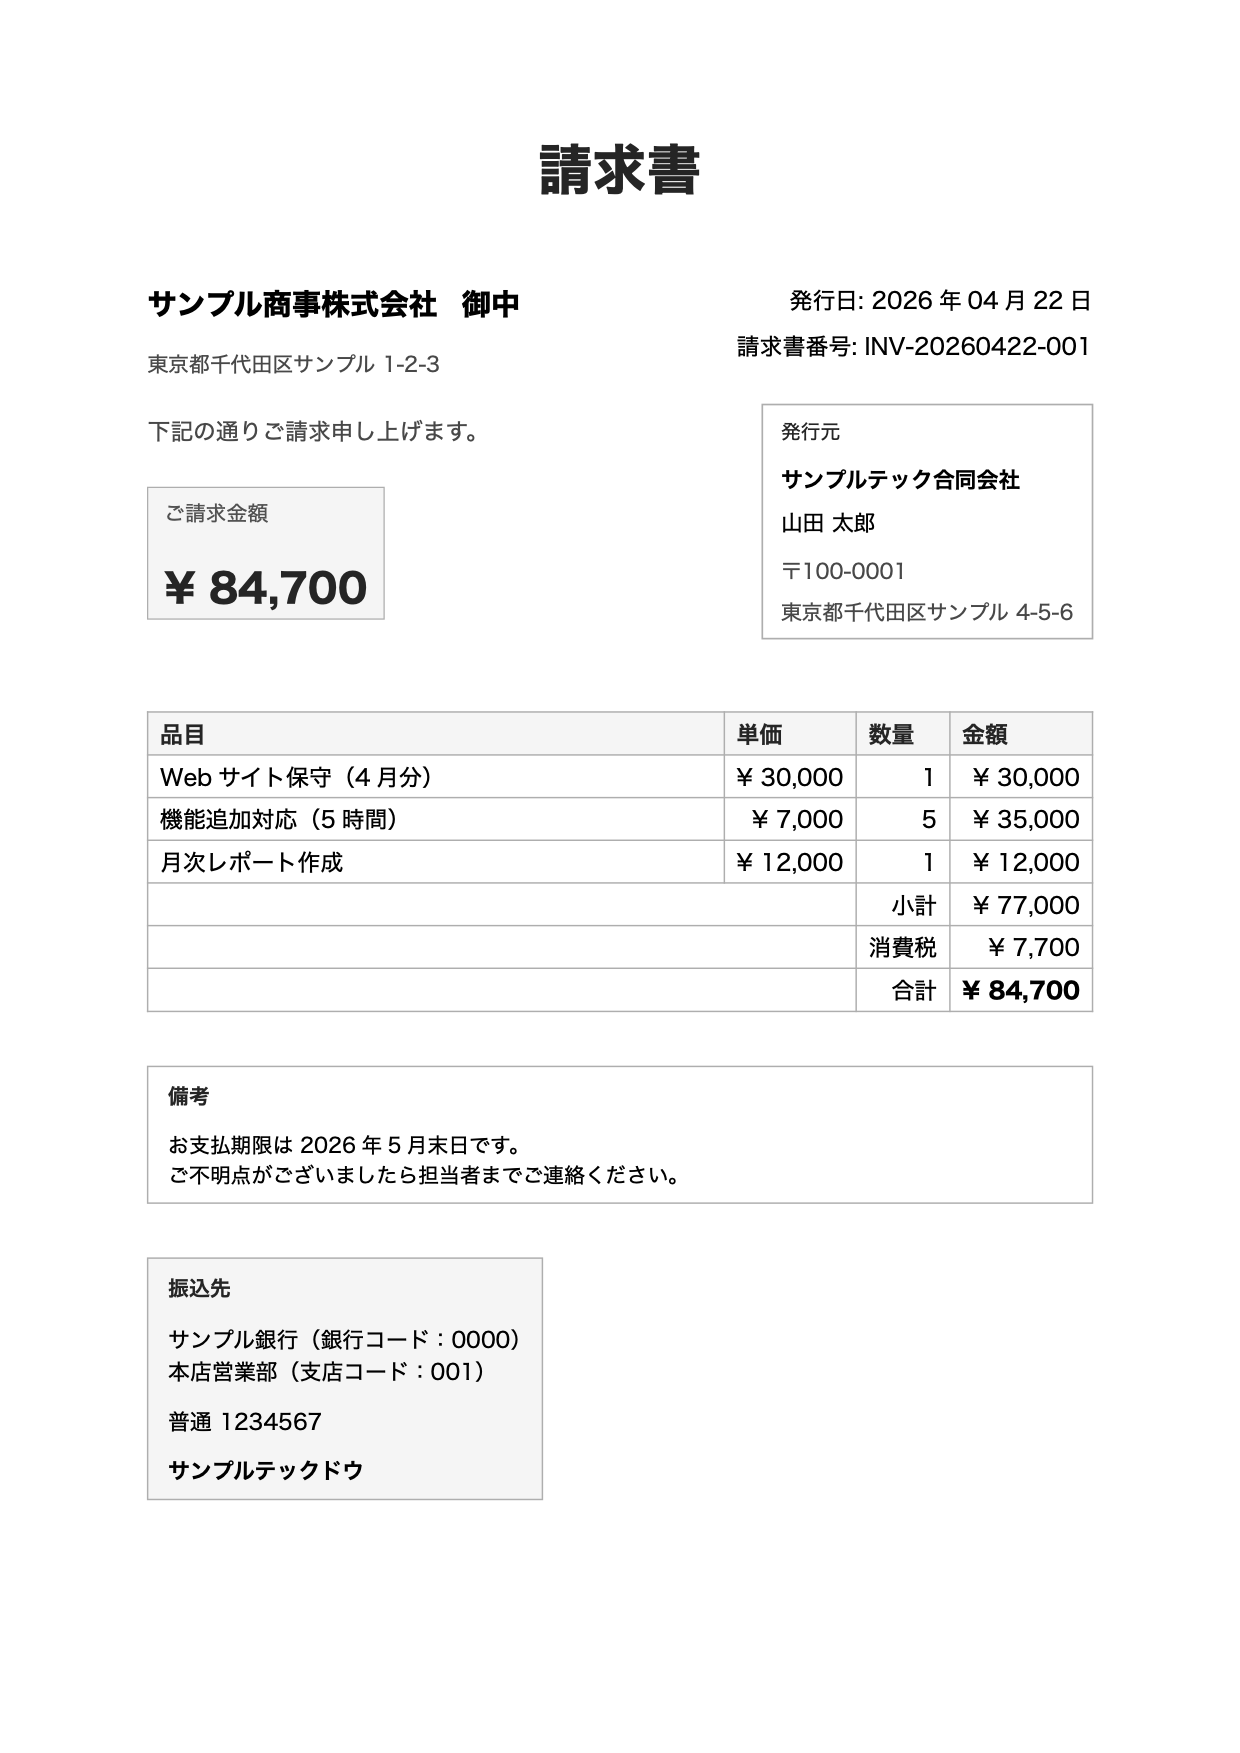
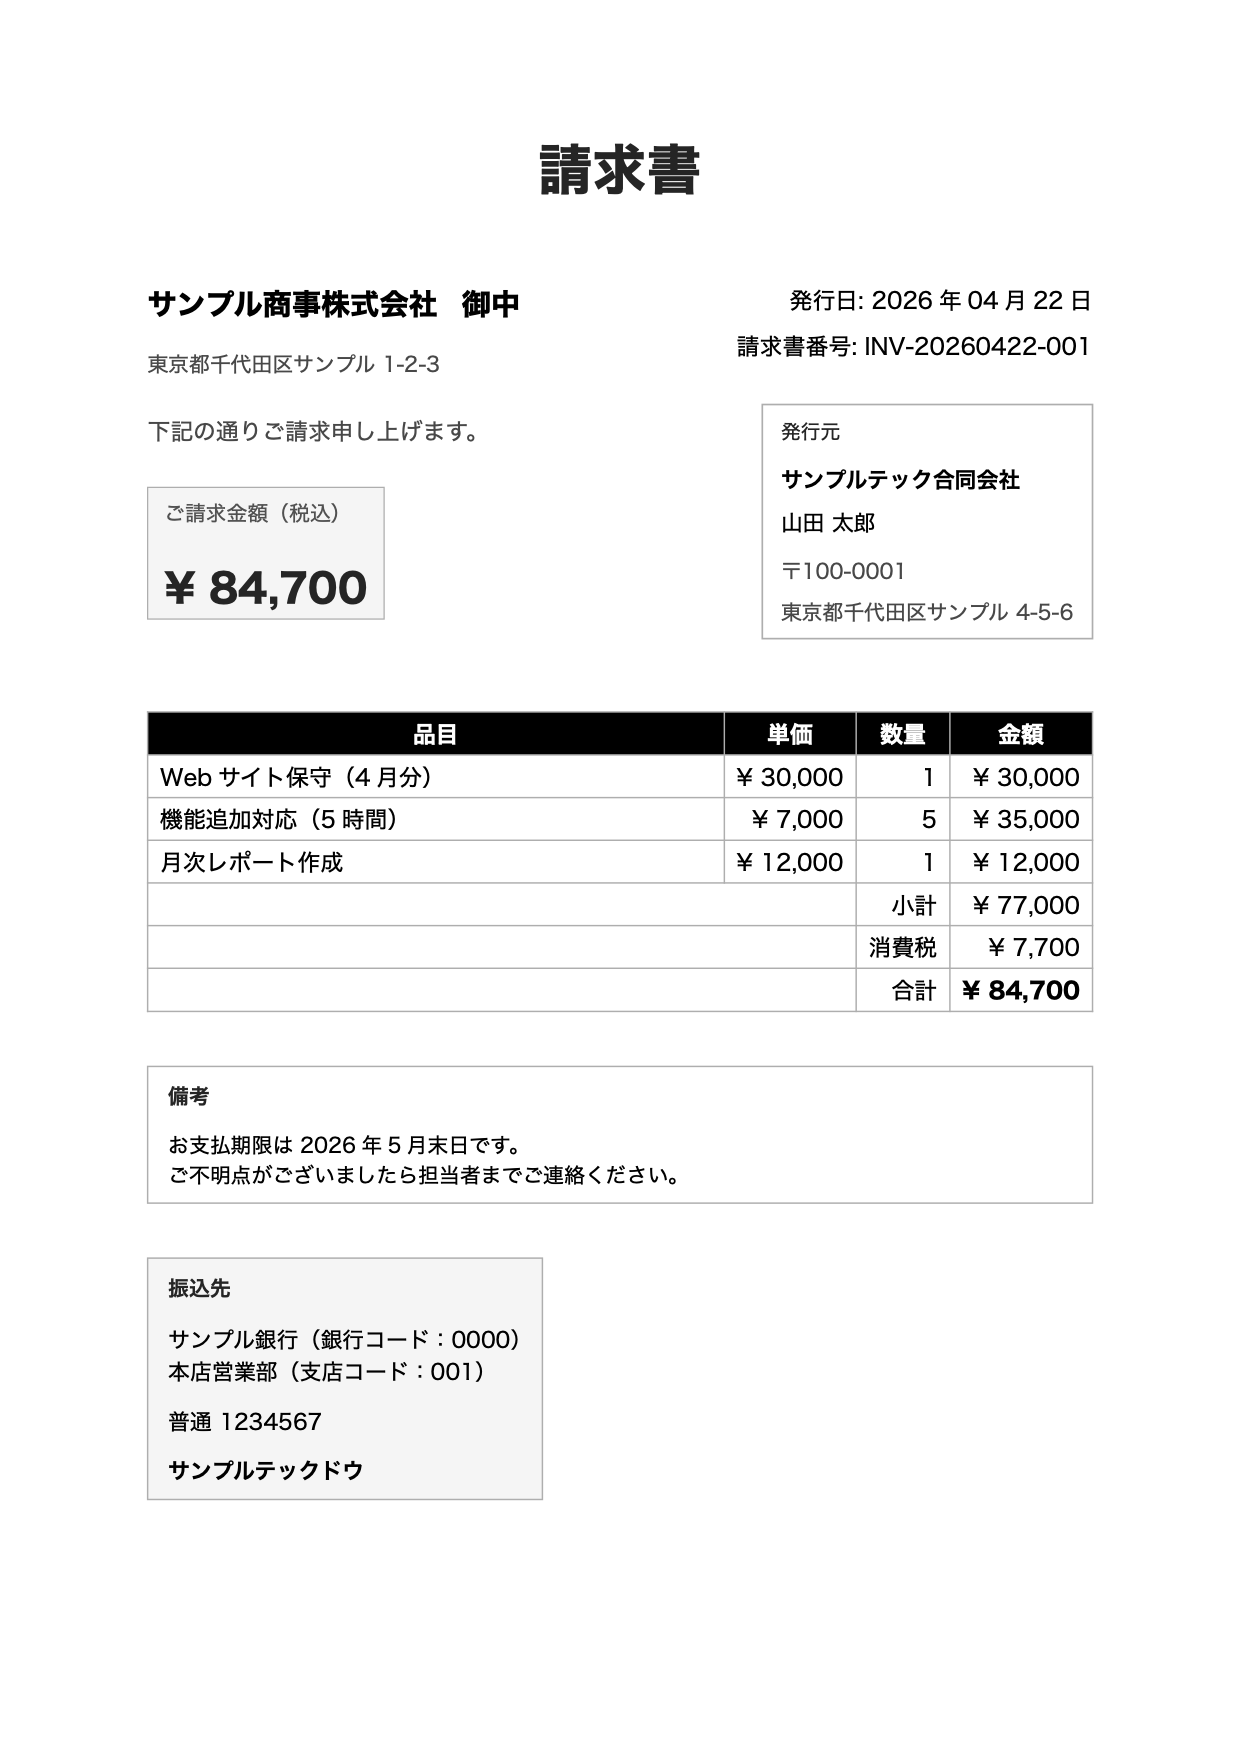
Enhance .gitignore for development and test files, update invoice labels to include tax information, and improve README.md with detailed recipient and issuer field descriptions.

Changed region(s): [[0.1226, 0.4005, 0.8887, 0.4313], [0.2145, 0.2772, 0.2758, 0.308]]

diff --git a/README.md b/README.md
@@ -4,7 +4,7 @@ A Typst template for generating Japanese estimates, invoices, and delivery notes
 
 Typst で日本語の **見積書 / 請求書 / 納品書** を作成できるテンプレートです。  
 
-![Sample Invoice](https://i.gyazo.com/3bc666298b94dc37c66ca9a35a33c7b8.png)
+![Sample Invoice](https://i.gyazo.com/15846bba67782a8a01f225dc5adca7e8.png)
 
 ## できること
 
@@ -148,11 +148,14 @@ typst compile main.typ
 ```
 
 - `doc_type`: `"見積書"` / `"請求書"` / `"納品書"`
-- `recipient`: `(name, honorific, address)`
+- `recipient`: `(name, honorific, address)`。`address` は `none` で省略可。
 - `issue_date`: `datetime(...)`
 - `items`: `((name, price, qty), ...)`
 - `tax_rate`: 消費税率（例: `0.1`）
-- `issuer`: `(label, company, name, postal_code, address)`
+- `issuer`: 差出し欄。`(label, company, name, postal_code, address, custom)` 形式の辞書。
+  - `name` / `postal_code` / `address` は `none` のときその行を出さない（住所を書かない請求書にも対応）。
+  - `address` は複数行にしたい場合、`content` で渡す（`[#linebreak()]` や `\\` で改行）。
+  - `custom` を **辞書に含め、かつ `none` でない content** にすると、差出しボックス内はその内容だけを表示する（登録番号・電話・独自ブロックなど、固定フィールドでは足りないとき用）。
 - `bank`: `(bank_name, branch_name, account_type, account_number, account_name)` または `none`
 - `remarks`: 備考。`none` で非表示
 - `document_number`: 文字列。`none` の場合は日付ベースで自動採番
